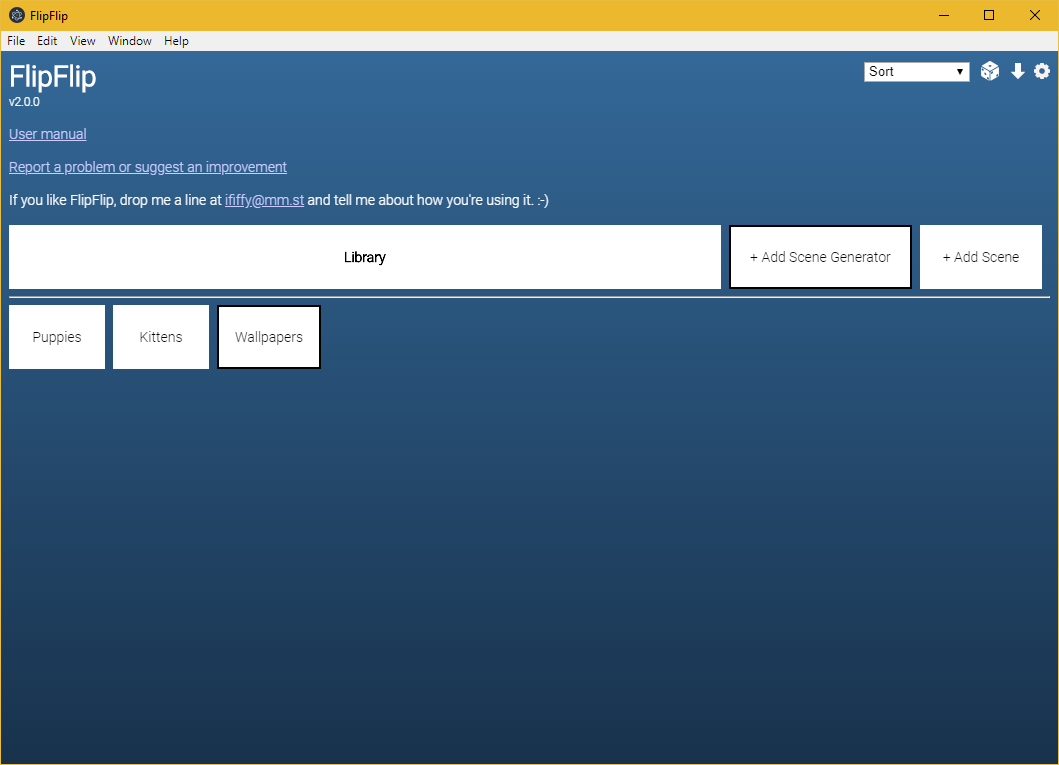
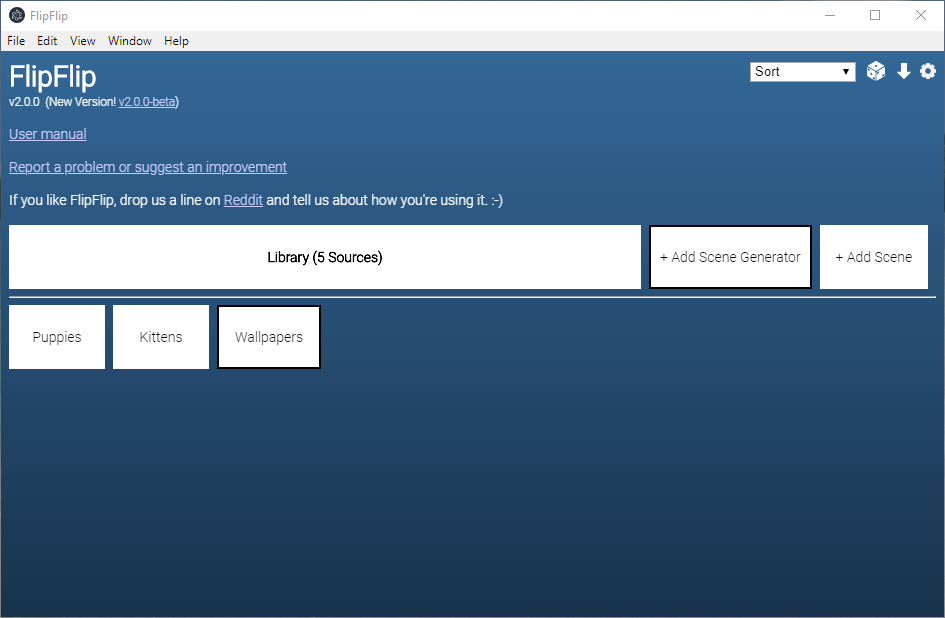
Prep for v2.0 Release

Changed region(s): [[0.0, 0.0, 1.0, 0.6149], [0.982, 0.9838, 1.0, 1.0], [0.0, 0.9838, 0.0307, 1.0]]

diff --git a/src/renderer/components/ScenePicker.tsx b/src/renderer/components/ScenePicker.tsx
@@ -109,7 +109,7 @@ export default class ScenePicker extends React.Component {
           </div>
 
           <div>
-            If you like FlipFlip, drop me a line at <a href="mailto:ififfy@mm.st">ififfy@mm.st</a> and tell me
+            If you like FlipFlip, drop us a line on <a href="https://www.reddit.com/r/flipflip">Reddit</a> and tell us
             about how you're using it. :-)
           </div>
         </div>

diff --git a/Readme.md b/Readme.md
@@ -22,16 +22,21 @@ that pop up.
 
 - Many bugfixes
 - Remote sources -- Tumblr and Reddit so far
+- Remote source import -- Tumblr and Reddit so far
 - Library
 - Source tagging
 - Source sorting & filtering
 - Scene Generation
 - Scene Export/Import
 - Configure FlipFlip options
+- Backup/Restore
 - Caching
 - Open random scene
 - Add config option for image background (color vs blur)
+- Add config option for strobe effect
 - Add config option for caption font styles
+- Detect and list system fonts
+- Add slower timing functions
 - Allow Text and Audio options to be changed while playing
 - "Always On Top" and "Show/Hide Menu" options in player
 - Improve source interface
